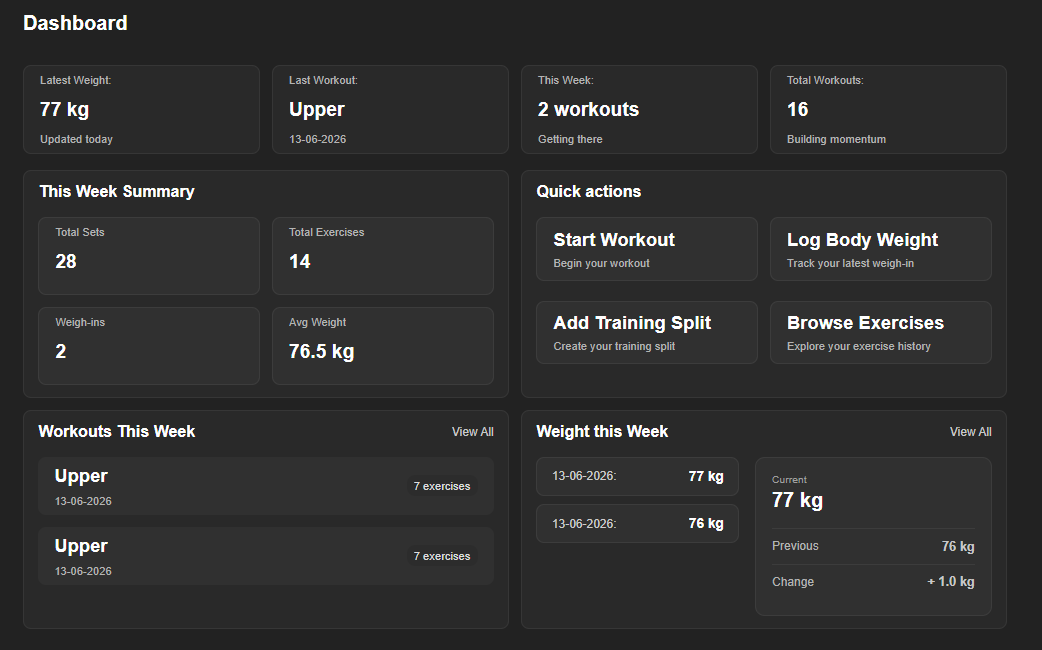
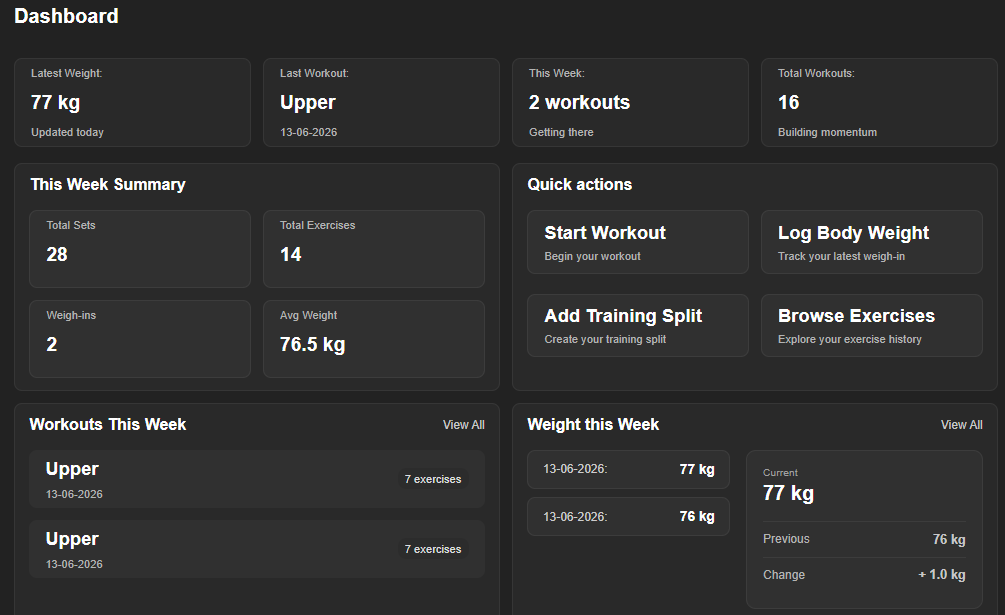
update projectc screenshots

diff --git a/src/components/ui/ProjectCard.tsx b/src/components/ui/ProjectCard.tsx
@@ -19,7 +19,7 @@ function ProjectCard({ project }: ProjectCardProp) {
   return (
     <article className="flex flex-col border gap-2 border-neutral-200 rounded-2xl p-5 shadow-sm transition hover:-translate-y-0.5 hover:shadow-md">
       <h3 className="text-xl font-semibold text-neutral-950">{project.title}</h3>
-      <img src={project.img} alt={`${project.title} screenshot`} className=" mt-2 rounded-xl w-full object-cover object-top" />
+      <img src={project.img} alt={`${project.title} screenshot`} className="mt-2 rounded-xl w-full object-cover object-top" />
       <p className="mt-4 text-base text-neutral-600 leading-7">{project.description}</p>
 
       <ul className="mt-4 space-y-2 text-sm leading-6 text-neutral-600">